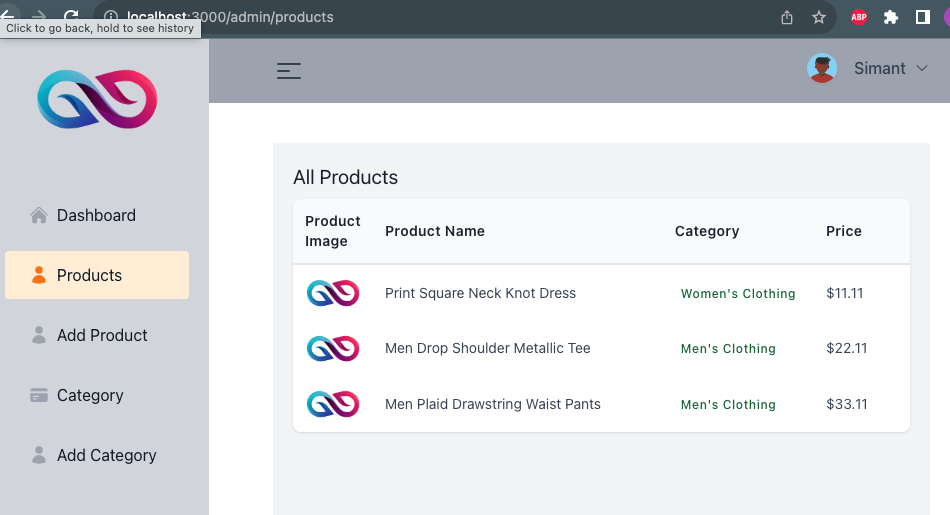
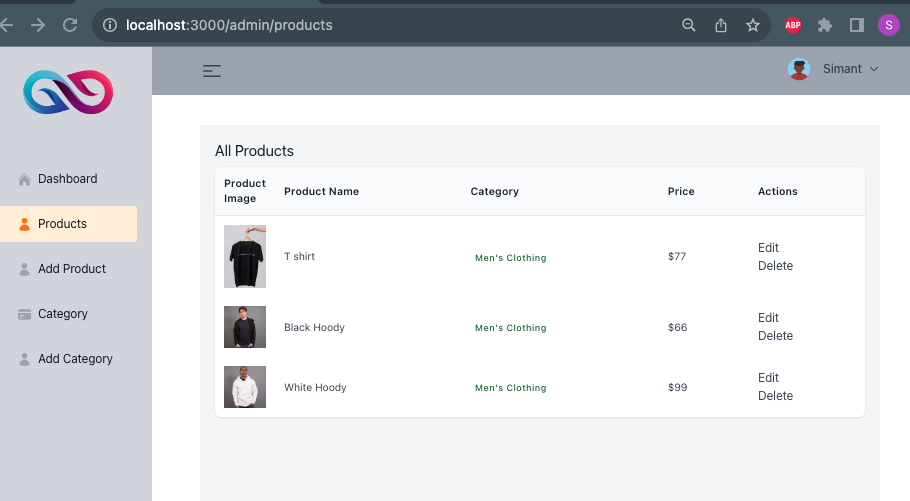
displaying product image from database

diff --git a/client/src/pages/admin/products/index.js b/client/src/pages/admin/products/index.js
@@ -1,4 +1,5 @@
 import { useEffect, useState } from "react";
+import Image from "next/image";
 
 function allProducts() {
   const [productList, setProductList] = useState([]);
@@ -48,11 +49,14 @@ function allProducts() {
                   <th className="p-3 text-sm font-semibold tracking-wide text-left">
                     Product Name
                   </th>
-                  <th className="w-24 p-3 text-sm font-semibold tracking-wide text-left">
+                  <th className="p-3 text-sm font-semibold tracking-wide text-left">
                     Category
                   </th>
-                  <th className="w-24 p-3 text-sm font-semibold tracking-wide text-left">
+                  <th className="p-3 text-sm font-semibold tracking-wide text-left">
                     Price
+                  </th>
+                  <th className="p-3 text-sm font-semibold tracking-wide text-left">
+                    Actions
                   </th>
                 </tr>
               </thead>
@@ -60,7 +64,12 @@ function allProducts() {
                 <tbody className="divide-y divide-gray-100" key={item._id}>
                   <tr className="bg-white">
                     <td className="p-3 text-sm text-gray-700 whitespace-nowrap">
-                      <img src="/images/logo.png" alt="product img" />
+                      <Image
+                        src={item.productImagePath}
+                        alt="Product Image"
+                        width={100}
+                        height={100}
+                      />
                     </td>
                     <td className="p-3 text-sm text-gray-700 whitespace-nowrap">
                       {item.name}
@@ -72,6 +81,10 @@ function allProducts() {
                     </td>
                     <td className="p-3 text-sm text-gray-700 whitespace-nowrap">
                       ${item.price}
+                    </td>
+                    <td className="p-3 text-gray-700 whitespace-nowrap">
+                      <p>Edit</p>
+                      <p>Delete</p>
                     </td>
                   </tr>
                 </tbody>

diff --git a/client/src/pages/components/ProductCard.js b/client/src/pages/components/ProductCard.js
@@ -1,46 +1,13 @@
 import Link from "next/link";
-//import { useEffect } from "react";
-import { useState, useEffect } from "react";
-//import ProductSwiper from "./ProductSwiper";
-//import styles from "./styles.module.scss";
-import logo from "../../../public/images/logo.png";
 import Image from "next/image";
 
 export default function ProductCard({ product }) {
-  // const [active, setActive] = useState(0);
-  // const [images, setImages] = useState(product.subProducts[active]?.images);
-  // const [prices, setPrices] = useState(
-  //   product.subProducts[active]?.sizes
-  //     .map((s) => {
-  //       return s.price;
-  //     })
-  //     .sort((a, b) => {
-  //       return a - b;
-  //     })
-  // );
-  // const [styless, setStyless] = useState(
-  //   product.subProducts.map((p) => {
-  //     return p.color;
-  //   })
-  // );
-  // useEffect(() => {
-  //   setImages(product.subProducts[active].images);
-  //   setPrices(
-  //     product.subProducts[active]?.sizes
-  //       .map((s) => {
-  //         return s.price;
-  //       })
-  //       .sort((a, b) => {
-  //         return a - b;
-  //       })
-  //   );
-  // }, [active, product]);
-
+  const fullImageUrl = product.productImagePath;
   return (
     <div className="bg-white shadow-md p-10 -mt-10 rounded-xl duration-500 hover:scale-105 hover:shadow-xl">
       <Link href={product.slug}>
         <Image
-          src={product.featuredImage}
+          src={fullImageUrl}
           alt="Product"
           className="object-cover rounded-t-xl"
           width={288}

diff --git a/client/src/pages/admin/category/index.js b/client/src/pages/admin/category/index.js
@@ -29,6 +29,9 @@ function allCategories() {
                   <th className="p-3 text-sm font-semibold tracking-wide text-left">
                     Slug
                   </th>
+                  <th className="p-3 text-sm font-semibold tracking-wide text-left">
+                    Actions
+                  </th>
                 </tr>
               </thead>
               {categoryList.map((item) => (
@@ -40,6 +43,14 @@ function allCategories() {
                     <td className="p-3 text-sm text-gray-700 whitespace-nowrap">
                       <span className="p-1.5 text-xs font-medium tracking-wider text-green-800 rounded-lg">
                         {item.slug}
+                      </span>
+                    </td>
+                    <td className="p-3 text-sm text-gray-700 whitespace-nowrap">
+                      <span className="p-1.5 text-xs font-medium tracking-wider text-green-800 rounded-lg">
+                        Edit
+                      </span>
+                      <span className="p-1.5 text-xs font-medium tracking-wider text-green-800 rounded-lg">
+                        Delete
                       </span>
                     </td>
                   </tr>

diff --git a/server/src/controllers/product.js b/server/src/controllers/product.js
@@ -19,11 +19,17 @@ const addNewProduct = async (req, res) => {
       price,
       slug,
       category,
-      productImage: imageUrl,
+      productImageFilename: req.file.filename,
+      productImagePath: `http://localhost:3005${imageUrl}`,
     };
 
     const product = await Product.create(newProduct);
-    return res.json({ product, msg: "New Product Added" });
+    const productWithImageUrl = {
+      ...product.toObject(),
+      productImageUrl: imageUrl,
+    };
+
+    return res.json({ product: productWithImageUrl, msg: "New Product Added" });
   } catch (error) {
     console.error("Error creating product:", error);
     return res.status(500).json({ error: "Failed to create product" });

diff --git a/client/src/redux/reducerSlices/categorySlice.js b/client/src/redux/reducerSlices/categorySlice.js
@@ -1,0 +1,19 @@
+import { createSlice } from "@reduxjs/toolkit";
+
+export const initialState = {
+  name: "",
+  slug: "",
+};
+
+const categorySlice = createSlice({
+  name: "category",
+  initialState,
+  reducers: {
+    changeCategoryDetails: (state, actions) => {
+      state.categoryDetails = actions.payload;
+    },
+  },
+});
+
+export const { changeCategoryDetails } = categorySlice.actions;
+export default categorySlice.reducer;

diff --git a/server/src/controllers/category.js b/server/src/controllers/category.js
@@ -18,8 +18,16 @@ const getCategory = async (req, res) => {
   return res.json(category);
 };
 
+const editCategory = async (req, res) => {
+  const data = await Category.findByIdAndUpdate(req.params.id, req.body);
+  if (data) {
+    res.json({ msg: "Category Updated" });
+  }
+};
+
 module.exports = {
   addNewCategory,
   getCategories,
   getCategory,
+  editCategory,
 };

diff --git a/server/src/routes/category.js b/server/src/routes/category.js
@@ -6,5 +6,6 @@ const CategoryController = require("../controllers/category");
 router.post("/addcategory", CategoryController.addNewCategory);
 router.get("/categories", CategoryController.getCategories);
 router.get("/category/:id", CategoryController.getCategory);
+router.put("/edit-category/:id", CategoryController.editCategory);
 
 module.exports = router;

diff --git a/server/src/models/product.js b/server/src/models/product.js
@@ -12,9 +12,10 @@ const productSchema = new Schema(
       type: String,
       required: true,
     },
-    productImage: {
+    productImageFilename: {
       type: String,
     },
+    productImagePath: String,
     price: {
       type: Number,
       required: true,

diff --git a/server/src/index.js b/server/src/index.js
@@ -13,6 +13,7 @@ app.use(cors());
 const connect = require("./db/connect");
 connect();
 
+app.use("/uploads", express.static("uploads"));
 app.use(UserRoute);
 app.use(ProductRoute);
 app.use(CategoryRoute);

diff --git a/client/src/pages/admin/category/edit.js b/client/src/pages/admin/category/edit.js
@@ -1,0 +1,7 @@
+import React from "react";
+
+function EditCategory() {
+  return <div>EditCategory</div>;
+}
+
+export default EditCategory;
